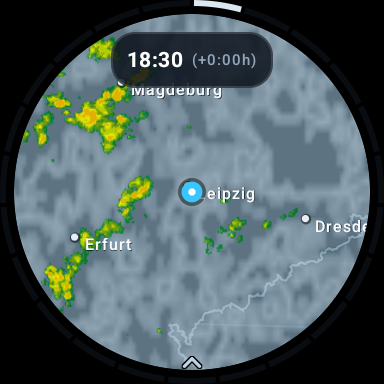
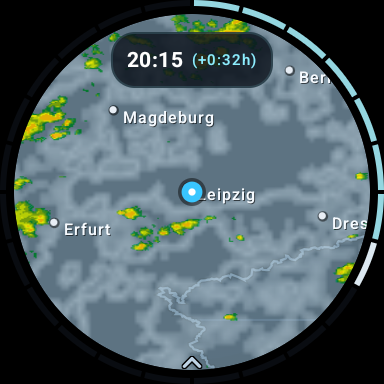
Add current watch screenshot to README

Changed region(s): [[0.0312, 0.0, 1.0, 0.9688], [0.6875, 0.0938, 0.7188, 0.125]]

diff --git a/README.md b/README.md
@@ -2,6 +2,8 @@
 
 A standalone Wear OS app for viewing rain and cloud radar data directly on your watch.
 
+![DWT radar map running on a Pixel Watch](store-assets/wear-screenshots/01-radar-map.png)
+
 ## Features
 
 - Animated radar timeline with past observations and forecasts
